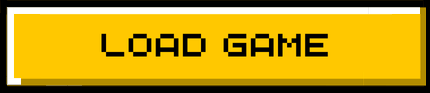
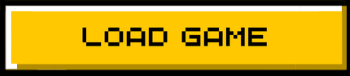
IntroScene and some new assets

diff --git a/src/Scenes/IntroScene.cpp b/src/Scenes/IntroScene.cpp
@@ -1,4 +1,3 @@
-#include "pch.h"
 #include "Logger.h"
 #include "Scenes/Scene.h"
 #include "Scenes/IntroScene.h"
@@ -6,31 +5,61 @@
 #include "InputHandler.h"
 namespace SceneSpace {
 IntroScene::IntroScene() : Scene() {
-  changeScreen = false;
-  background = LoadTexture("../CS202-Mario-Game/assets/MenuBackground.png");
+  changeGameScreen = false;
+  changeLoadScreen = false;
+  changeRankingScreen = false;
+  changeSettingsScreen = false;
 }
 IntroScene::~IntroScene() {
 #ifdef _DEBUG
   Log("log.txt", LogLevel::INFO, "IntroScene destroyed");
 #endif
+  delete NewGameButton;
+  delete LoadGameButton;
+  delete RankingButton;
+  delete SettingsButton;
 }
 
 Shared<Scene> IntroScene::update() {
-  if(changeScreen)
+  Vector2 mousePos = GetMousePosition();
+  bool isLeftClick = IsMouseButtonPressed(MOUSE_BUTTON_LEFT);
+  NewGameButton->update(mousePos, isLeftClick);
+  LoadGameButton->update(mousePos, isLeftClick);
+  RankingButton->update(mousePos, isLeftClick);
+  SettingsButton->update(mousePos, isLeftClick);
+
+  if(NewGameButton->isPressed()) changeGameScreen = true;
+  if(LoadGameButton->isPressed()) changeLoadScreen = true;
+  if(RankingButton->isPressed()) changeRankingScreen = true;
+  if(SettingsButton->isPressed()) changeSettingsScreen = true;
+
+  if(changeGameScreen)
     return std::make_shared<SceneSpace::GameScene>();
   return nullptr;
 }
 void IntroScene::draw() {
   DrawTexture(background,0,0,WHITE);
+  NewGameButton->draw();
+  LoadGameButton->draw();
+  RankingButton->draw();
+  SettingsButton->draw();
 }
-void IntroScene::pressEnter() {
-  changeScreen = true;
-}
+
 void IntroScene::acceptInputHandler(InputHandler inputHandler) {
   inputHandler.inputHandleForIntroScene(*this);
 }
-void IntroScene::loadResources() {};
+void IntroScene::loadResources() {
+  background = LoadTexture("./assets/MenuBackground.png");
+  NewGameButton = new GUI::ImageButton(545, 340, "./assets/NewGameButton.png", "./assets/Hover_NewGameButton.png");
+  LoadGameButton = new GUI::ImageButton(545, 425, "./assets/LoadGameButton.png", "./assets/Hover_LoadGameButton.png");
+  RankingButton = new GUI::ImageButton(545, 510, "./assets/RankingButton.png", "./assets/Hover_RankingButton.png");
+  SettingsButton = new GUI::ImageButton(545, 595, "./assets/SettingsButton.png", "./assets/Hover_SettingsButton.png");
+
+};
 void IntroScene::start() {
-  changeScreen = false;
+  changeGameScreen = false;
+  changeLoadScreen = false;
+  changeRankingScreen = false;
+  changeSettingsScreen = false;
 };
 } // namespace SceneSpace

diff --git a/src/GUI.cpp b/src/GUI.cpp
@@ -1,0 +1,32 @@
+#include "GUI.h"
+
+GUI::ImageButton::ImageButton(float x, float y, const char* idelTextureFile, const char* hoverTextureFile)
+{
+    posX = x;
+    posY = y;
+    idelTexture = LoadTexture(idelTextureFile);
+    hoverTexture = LoadTexture(hoverTextureFile);
+}
+
+void GUI::ImageButton::update(Vector2& mousePos, bool& isLeftClick)
+{
+    Rectangle rect = {posX, posY, (float)idelTexture.width, (float)idelTexture.height};
+    buttonState = BTN_IDLE;
+    if (CheckCollisionPointRec(mousePos,rect))
+    {
+	    buttonState = BTN_HOVER;
+        if(isLeftClick) buttonState = BTN_PRESSED;
+    }
+}
+
+void GUI::ImageButton::draw()
+{
+    if(buttonState == BTN_IDLE) DrawTexture(idelTexture, posX, posY, WHITE);
+    else DrawTexture(hoverTexture, posX, posY, WHITE);
+}
+
+bool GUI::ImageButton::isPressed()
+{
+	if (buttonState == BTN_PRESSED) return true;
+	return false;
+}

diff --git a/include/Scenes/IntroScene.h b/include/Scenes/IntroScene.h
@@ -1,5 +1,6 @@
 #ifndef INTROSCENE_H
 #define INTROSCENE_H
+#include "GUI.h"
 namespace SceneSpace {
 class Scene;
 
@@ -12,10 +13,13 @@ public:
   void acceptInputHandler(InputHandler inputHandler) override;
   void loadResources() override;
   void start() override;
-  void pressEnter() override;
 private:
-  bool changeScreen;
+  bool changeGameScreen, changeLoadScreen, changeRankingScreen, changeSettingsScreen;
   Texture background;
+  GUI::ImageButton* NewGameButton;
+  GUI::ImageButton* LoadGameButton;
+  GUI::ImageButton* RankingButton;
+  GUI::ImageButton* SettingsButton;
 };
 } // namespace SceneSpace
 #endif // INTROSCENE_H

diff --git a/include/GUI.h b/include/GUI.h
@@ -1,0 +1,20 @@
+#pragma once
+#include "pch.h"
+
+namespace GUI{
+    // IMAGEBUTTON
+    class ImageButton{
+        enum button_states { BTN_IDLE = 0, BTN_HOVER, BTN_PRESSED };
+    private:
+		short unsigned buttonState = 0;
+		Texture idelTexture;
+		Texture hoverTexture;
+        Vector2 position;
+        float posX, posY;
+    public:
+        ImageButton(float x, float y, const char* idelTextureFile, const char* hoverTextureFile);
+        void update(Vector2& mousePos, bool& isLeftClick);
+		void draw();
+		bool isPressed();
+    };
+}

diff --git a/src/InputHandler.cpp b/src/InputHandler.cpp
@@ -6,8 +6,3 @@ void InputHandler::inputHandleForGameScene(SceneSpace::GameScene &listener) {
     else if(IsKeyDown(KEY_UP)) listener.pressUp();
     else listener.pressNothing();
 }
-
-void InputHandler::inputHandleForIntroScene(SceneSpace::IntroScene &listener) {
-    if(IsKeyDown(KEY_ENTER))
-        listener.pressEnter();
-}

diff --git a/include/CommandListener.h b/include/CommandListener.h
@@ -4,7 +4,7 @@ class CommandListener {
 public:
     CommandListener();
     virtual ~CommandListener();
-
+    
     virtual void pressUp();
     virtual void pressDown();
     virtual void pressLeft();
